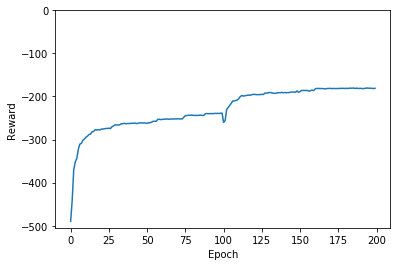
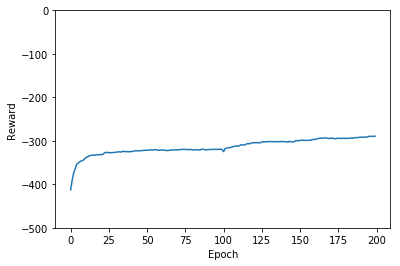
More results

diff --git a/expsetup.tex b/expsetup.tex
@@ -65,8 +65,9 @@ Hyperparameters, such as the learning rate of neural networks, were chosen by it
 % section methodology (end)
 
 \section{Results}
-\todo{Improve this}
-Here we compare the results of our transfer learning algorithm with those of the \textit{REINFORCE} algorithm.
+\todo{Add with more experiments}
+To evaluate our proposed algorithm, we use different experiments. First we compare the sequential and parallel version of our algorithm. Afterwards, we see if transferring a sparse representation from a random source task to the target task yields improvements.
+When discussing the jumpstart and asymptotic performance, we use the mean reward at respectively the first 5 and the last 5 epochs (updates to the artificial neural network parameters).
 
 \subsection{Parallel and sequential knowledge transfer} % (fold)
 \label{sub:parallel_and_sequential_knowledge_transfer}
@@ -89,9 +90,14 @@ By observing those medians, we can say that the parallel version is better.\\
 For the following experiments, when referring to "our transfer learning algorithm", the parallel version will be used.
 % subsection parallel_and_sequential_knowledge_transfer (end)
 
+\subsection{Feature extraction} % (fold)
+\label{sub:feature_extraction}
+In this experiment, we evaluate the use of feature extraction on the states. We compare the performance of an artificial neural network that uses feature extraction with one that doesn't.
+% subsection feature_extraction (end)
+
 \subsection{Without sparse representation transfer} % (fold)
 \label{sub:cartpole:without_sparse_representation_transfer}
-We first explore the differences between learning directly on a target task and first learning on source tasks (i.e. using our transfer learning algorithm), using the metrics that we defined in Section~\ref{sub:tl_metrics}.
+We now explore the differences between learning directly on a target task and first learning on source tasks (i.e. using our transfer learning algorithm), using the metrics that we defined in Section~\ref{sub:tl_metrics}.
 We consider both 5 and 10 source tasks.
 The algorithms using 5 source tasks and 10 source tasks are referred to as respectively \textit{TLA 5} and \textit{TLA 10}.
 For the regular algorithm, we use the \textit{REINFORCE} that was discussed in Section~\ref{sub:rl_policy_gradient}.
@@ -118,7 +124,7 @@ It can be seen visually that, on average, in all the configurations the jumpstar
     \hline
     \end{tabular}
     \caption{Mean, standard deviation and median of the jumpstart performances for \textit{REINFORCE}, \textit{TLA 5} and \textit{TLA 10} applied to the cart-pole environment.}
-    \label{tab:nosparse:stats}
+    \label{tab:cartpole:nosparse:stats}
 \end{table}
 It can be seen that the best jumpstart performance is achieved using \textit{TLA 10}, as it has the highest mean and median and varies the least. As it learned on more source tasks, it has more samples from the distribution of environment parameters and thus it can cover more kinds of task variations. \textit{REINFORCE} performs the worst, as it must learn without any prior learned knowledge.
 
@@ -135,10 +141,10 @@ It can be seen that the best jumpstart performance is achieved using \textit{TLA
 %        \textit{TLA 10} & $0.097$ & $0.415$ & NA \\
 %     \hline
 %     \end{tabular}
-%     \caption{P-values for the Wilcoxon signed-rank test using different algorithms.}
+%     \caption{P-values for the Wilcoxon rank-sum test using different algorithms.}
 %     \label{tab:nosparse:pvalues}
 % \end{table}
-% This is confirmed by using the Wilcoxon signed-rank test.
+% This is confirmed by using the Wilcoxon rank-sum test.
 % The null-hypothesis is that there is no difference between the jumpstart performance of 2 algorithms.
 % With a significance level of $0.05$, we can say that the null-hypotheses should be retained and there is no difference between the jumpstart performances of any of the algorithms.\\
 We can also see in Figure~\ref{fig:CartPole:reward_target_re-akt5-akt10} that \textit{REINFORCE} takes longer on average to reach the maximum reward (which is $200$ in this environment). As a result, the area under curve for \textit{REINFORCE} is $18170.243$ whereas it is $19130.824$ and $19329.318$ for respectively \textit{TLA 5} and \textit{TLA 10}.\\
@@ -182,7 +188,7 @@ The resulting p-values are shown in Table~\ref{tab:sparse:pvalues}.
        \textit{TLA 10} & $0.426$ & $0.179$ & \\
     \hline
     \end{tabular}
-    \caption{P-values for the Wilcoxon signed-rank test using different algorithms where the \textit{TLA} algorithms use sparse representation transfer.}
+    \caption{P-values for the Wilcoxon rank-sum test of the jumpstart performances using different algorithms, applied to the Acrobot environment, where the \textit{TLA} algorithms use sparse representation transfer.}
     \label{tab:sparse:pvalues}
 \end{table}
 We can say using each time a significance level of $0.05$ that there is no difference between any combination of algorithms.\\
@@ -190,21 +196,33 @@ We can say using each time a significance level of $0.05$ that there is no diffe
 As we could already see in Figure~\ref{fig:Acrobot:reward_target_re-akt5-akt10}, the learning performance of the \textit{REINFORCE} algorithm seems to be lower on average than the other algorithms.
 This is also visible when looking at the area under curve, which is $-30810.360$ for \textit{REINFORCE} algorithm and $-19437.733$ and $-16223.803$ for respectively \textit{TLA 5} and \textit{TLA 10}.\\
 
-Last, we compare the asymptotic performances, again with the same test and the null-hypotheses that there are no differences between the asymptotic performances.
-We get the following p-values:
-\begin{itemize}
-    \item \textit{REINFORCE} and \textit{TLA 5}: $0.0000$
-    \item \textit{REINFORCE} and \textit{TLA 10}: $0.0000$
-    \item \textit{TLA 5} and \textit{TLA 10}: $0.2902$
-\end{itemize}
-With a significance level of $0.05$, we can say that there is a difference between \textit{REINFORCE} and \textit{TLA 5} and between \textit{REINFORCE} and \textit{TLA 10}. With the same significance level, we retain the null-hypothesis for \textit{TLA 5} and \textit{TLA 10}. To further discuss these differences, we again look at the boxplots of the asymptotic performances for the three configurations. These are shown in Figure~\ref{fig:Acrobot:asymp_target_re-akt5-akt10}.
+Last, we compare the asymptotic performances, again with the same test and the null-hypotheses that there are no differences between the asymptotic performances. The resulting p-values are shown in Table~\ref{tab:sparse:asymp:pvalues}.
+\begin{table}[htb]
+    \centering
+    \begin{tabular}{llccc}
+    \hline
+    Algorithm & \textit{REINFORCE} & \textit{TLA 5} & \textit{TLA 10} \\
+    \hline
+       \textit{REINFORCE}  & & & \\
+       \textit{TLA 5} & $1.034*10^{-4}$ & & \\
+       \textit{TLA 10} & $7.091*10^{-6}$ & $0.449$ & \\
+    \hline
+    \end{tabular}
+    \caption{P-values for the Wilcoxon rank-sum test using different algorithms where the \textit{TLA} algorithms use sparse representation transfer.}
+    \label{tab:sparse:asymp:pvalues}
+\end{table}
+
+With a significance level of $0.05$, we can say that there is a difference between \textit{REINFORCE} and \textit{TLA 5} and between \textit{REINFORCE} and \textit{TLA 10}.
+With the same significance level, we retain the null-hypothesis for \textit{TLA 5} and \textit{TLA 10}.
+Thus, we can say that using knowledge transfer yields a significant difference in the resulting performance, when applied to the Acrobot environment.
+To further discuss these differences, we look at the boxplots of the asymptotic performances for the three configurations. These are shown in Figure~\ref{fig:Acrobot:asymp_target_re-akt5-akt10}.
 \begin{figure}[htb]
     \centering
     \includegraphics[width=.8\linewidth]{images/results/Acrobot/no_sparse_transfer/asymp_target_re-akt5-akt10.png}
     \caption{Boxplots of the asymptotic performances of \textit{REINFORCE}, \textit{TLA 5} and \textit{TLA 10} using the \textit{Acrobot} environment.}
     \label{fig:Acrobot:asymp_target_re-akt5-akt10}
 \end{figure}
-We can see that the median for the \textit{REINFORCE} algorithm is still the lowest possible reward for this environment. The medians of \textit{TLA 5} and \textit{TLA 10} are respectively $-105.3053$ and $-98.3911$. Only some outliers of these algorithms don't get past the minimum reward.
+We can see that the median for the \textit{REINFORCE} algorithm is still the lowest possible reward for this environment. This means that in half of the cases, the \textit{REINFORCE} algorithm cannot improve and cannot get past the minimum reward. The medians of \textit{TLA 5} and \textit{TLA 10} are respectively $-105.305$ and $-98.391$. Only some outliers of these algorithms don't get past the minimum reward.
 % subsubsection acrobot (end)
 
 % To further explore the jumpstart performance, we will look at boxplots of the jumpstarts of both algorithms, computed using all the 100 runs of both algorithms. These are shown in Figure~\ref{fig:boxplot_tla_re_5envs}.
@@ -219,24 +237,63 @@ We can see that the median for the \textit{REINFORCE} algorithm is still the low
 % subsubsection cartpole:without_sparse_representation_transfer (end)
 \subsection{With sparse representation transfer} % (fold)
 \label{sub:cartpole:with_sparse_representation_transfer}
-We now explore the results of transferring a sparse representation. After learning on the source tasks, we initialize the sparse representation weights with those of a randomly chosen sparse representation of a source task. The algorithm can then change this sparse representation to improve its performance on the target task. We first discuss the results of this experiment applied to the cart-pole environment.
+We now explore the results of transferring a sparse representation. After learning on the source tasks, we initialize the sparse representation weights with those of a randomly chosen sparse representation of a source task. The algorithm can then change this sparse representation to improve its performance on the target task. We compare the results to those when not transferring the sparse representation, both for the cart-pole and the acrobot environment.
 \subsubsection{Cart-pole} % (fold)
 \label{ssub:with_sparse_representation_transfer:cartpole}
+To see how both version of the algorithm differ on average in terms of learning performance, we take a look at the learning curves, which are shown in Figure~\ref{fig:CartPole:st:reward_target_without-with}.
 \begin{figure}[htb]
     \centering
-    \includegraphics[width=.8\linewidth]{images/results/CartPole/sparse_transfer/reward_target_re-akt5-akt10.png}
-    \caption[Learning curves for the \textit{Cart-pole} environment of \textit{REINFORCE} and \textit{TLA} using sparse representation transfer]{Learning curves for the \emph{Cart-pole} environment of the \textit{REINFORCE} algorithm and our transfer learning algorithm (\textit{TLA}) with 5 source tasks (shown as \textit{TLA 5}) and 10 source tasks (shown as \textit{TLA 10}). The sparse representation of a randomly chosen source task was transferred to the target task.}
-    \label{fig:CartPole:st:reward_target_re-akt5-akt10}
+    \includegraphics[width=.8\linewidth]{images/results/CartPole/sparse_transfer/reward_target_without_with.png}
+    \caption[Learning curves for the \textit{Cart-pole} environment of \textit{TLA} with and without sparse representation transfer]{Learning curves for the \emph{Cart-pole} environment of our transfer learning algorithm (\textit{TLA}) with 5 source tasks (shown as \textit{TLA 5}) and 10 source tasks (shown as \textit{TLA 10}), both with and without sparse representation transfer.}
+    \label{fig:CartPole:st:reward_target_without-with}
 \end{figure}
+It can be seen that the versions using sparse representation transfer need little to no update to reach the maximum reward. However, all versions converge to the maximum as all the medians of the asymptotic performances are $200$.
+% It can be seen that, on average, the version using sparse representation transfer can start with a high reward but improves little afterwards. However, the rewards stay superior to those using the version without sparse representation transfer.
+
+We now compare the jumpstart performances of these algorithms using statistics, shown in Table~\ref{tab:cartpole:sparse:jumpstart:stats}.
+\begin{table}[htb]
+    \centering
+    \begin{tabular}{llccc}
+    \hline
+    Algorithm & Sparse repr. transfer & Mean & Standard deviation & Median \\
+    \hline
+       \textit{TLA 5} & No & $158.237$ & $23.153$ & $163.840$ \\
+       \textit{TLA 10} & No & $165.120$ & $21.955$ & $169.034$ \\
+       \textit{TLA 5} & Yes & $\bm{199.997}$ & $0.0220$ & $\bm{200.000}$ \\
+       \textit{TLA 10} & Yes & $194.260$ & $23.742$ & $\bm{200.000}$ \\
+    \hline
+    \end{tabular}
+    \caption{Mean, standard deviation and median of the jumpstart performances for \textit{TLA 5} and \textit{TLA 10}, with without and with sparse representation transfer, applied to the cart-pole environment.}
+    \label{tab:cartpole:sparse:jumpstart:stats}
+\end{table}
+As shown, the version using sparse representation transfer performs better initially.
+
+% We now determine if the jumpstart performances differ significantly, again using a Wilcoxon rank-sum test with the null-hypothesis that there is no difference. The resulting p-values are shown in
 % subsubsection cartpole (end)
 \subsubsection{Acrobot} % (fold)
 \label{ssub:with_sparse_representation_transfer:acrobot}
 \begin{figure}[htb]
     \centering
-    \includegraphics[width=.8\linewidth]{images/results/Acrobot/sparse_transfer/reward_target_re-akt5-akt10.png}
-    \caption[Learning curves for the \textit{Acrobot} environment of \textit{REINFORCE} and \textit{TLA} using sparse representation transfer]{Learning curves for the \emph{Acrobot} environment of the \textit{REINFORCE} algorithm and our transfer learning algorithm (\textit{TLA}) with 5 source tasks (shown as \textit{TLA 5}) and 10 source tasks (shown as \textit{TLA 10}). The sparse representation of a randomly chosen source task was transferred to the target task.}
-    \label{fig:Acrobot:st:reward_target_re-akt5-akt10}
+    \includegraphics[width=.8\linewidth]{images/results/Acrobot/sparse_transfer/reward_target_without_with.png}
+    \caption[Learning curves for the \textit{acrobot} environment of \textit{TLA} with and without sparse representation transfer]{Learning curves for the \emph{acrobot} environment of our transfer learning algorithm (\textit{TLA}) with 5 source tasks (shown as \textit{TLA 5}) and 10 source tasks (shown as \textit{TLA 10}), both with and without sparse representation transfer.}
+    \label{fig:Acrobot:st:reward_target_without-with}
 \end{figure}
+
+\begin{table}[htb]
+    \centering
+    \begin{tabular}{llccc}
+    \hline
+    Algorithm & Sparse repr. transfer & Mean & Standard deviation & Median \\
+    \hline
+       \textit{TLA 5} & No & $-380.222$ & $160.589$ & $-500.000$ \\
+       \textit{TLA 10} & No & $\-339.530$ & $168.845$ & $\bm{-419.571}$ \\
+       \textit{TLA 5} & No & $-141.236$ & $101.567$ & $-110.482$ \\
+       \textit{TLA 10} & No & $\bm{-136.400}$ & $97.188$ & $\bm{-108.157}$ \\
+    \hline
+    \end{tabular}
+    \caption{Mean, standard deviation and median of the jumpstart performances for \textit{REINFORCE}, \textit{TLA 5} and \textit{TLA 10} applied to the Acrobot environment.}
+    \label{tab:acrobot:sparse:stats}
+\end{table}
 % subsubsection acrobot (end)
 % subsection with_sparse_representation_transfer (end)
 
